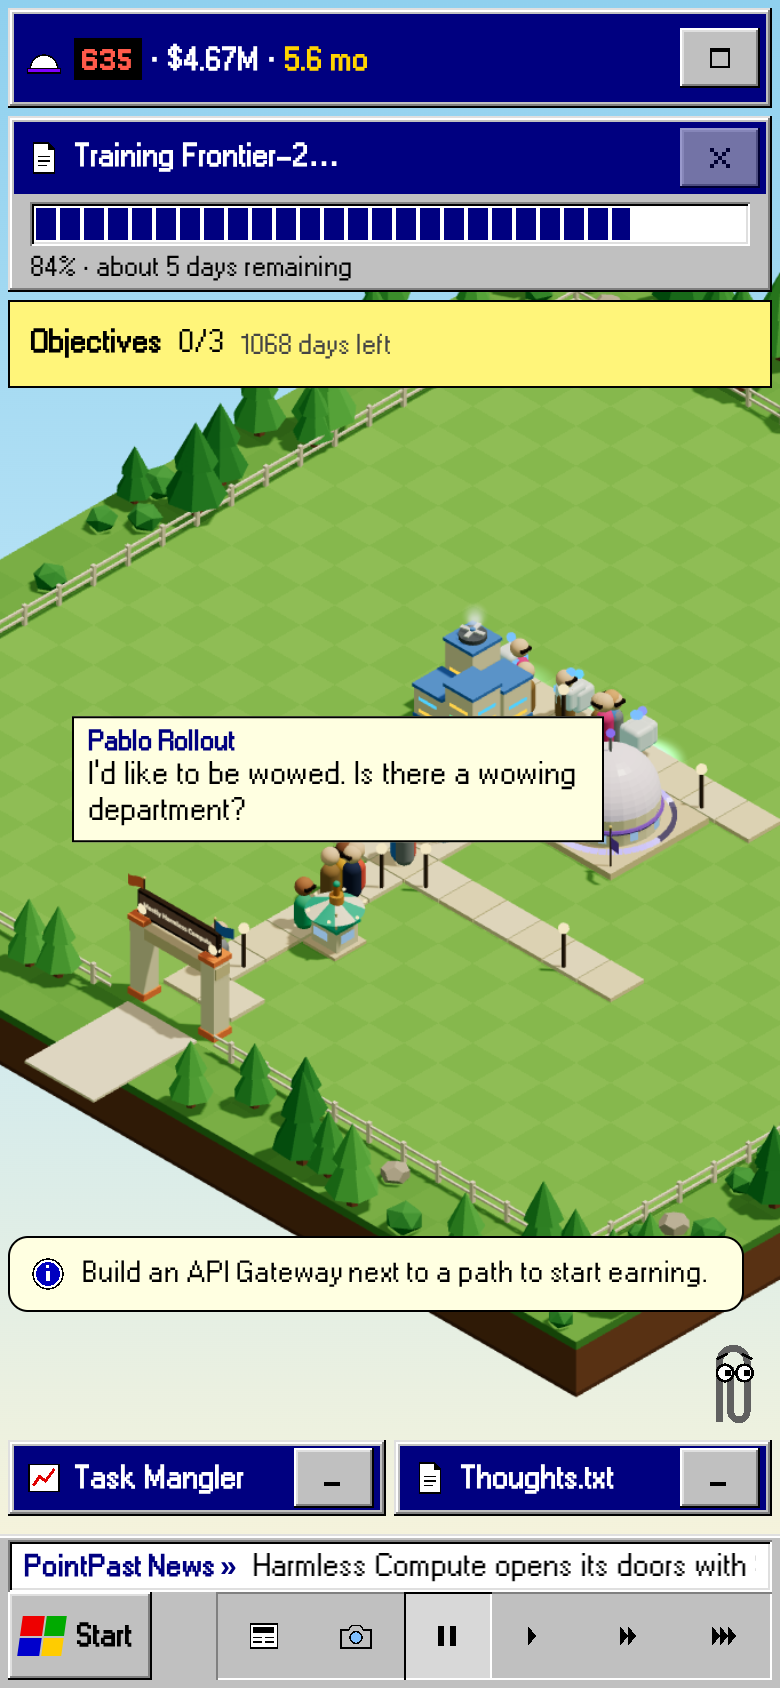
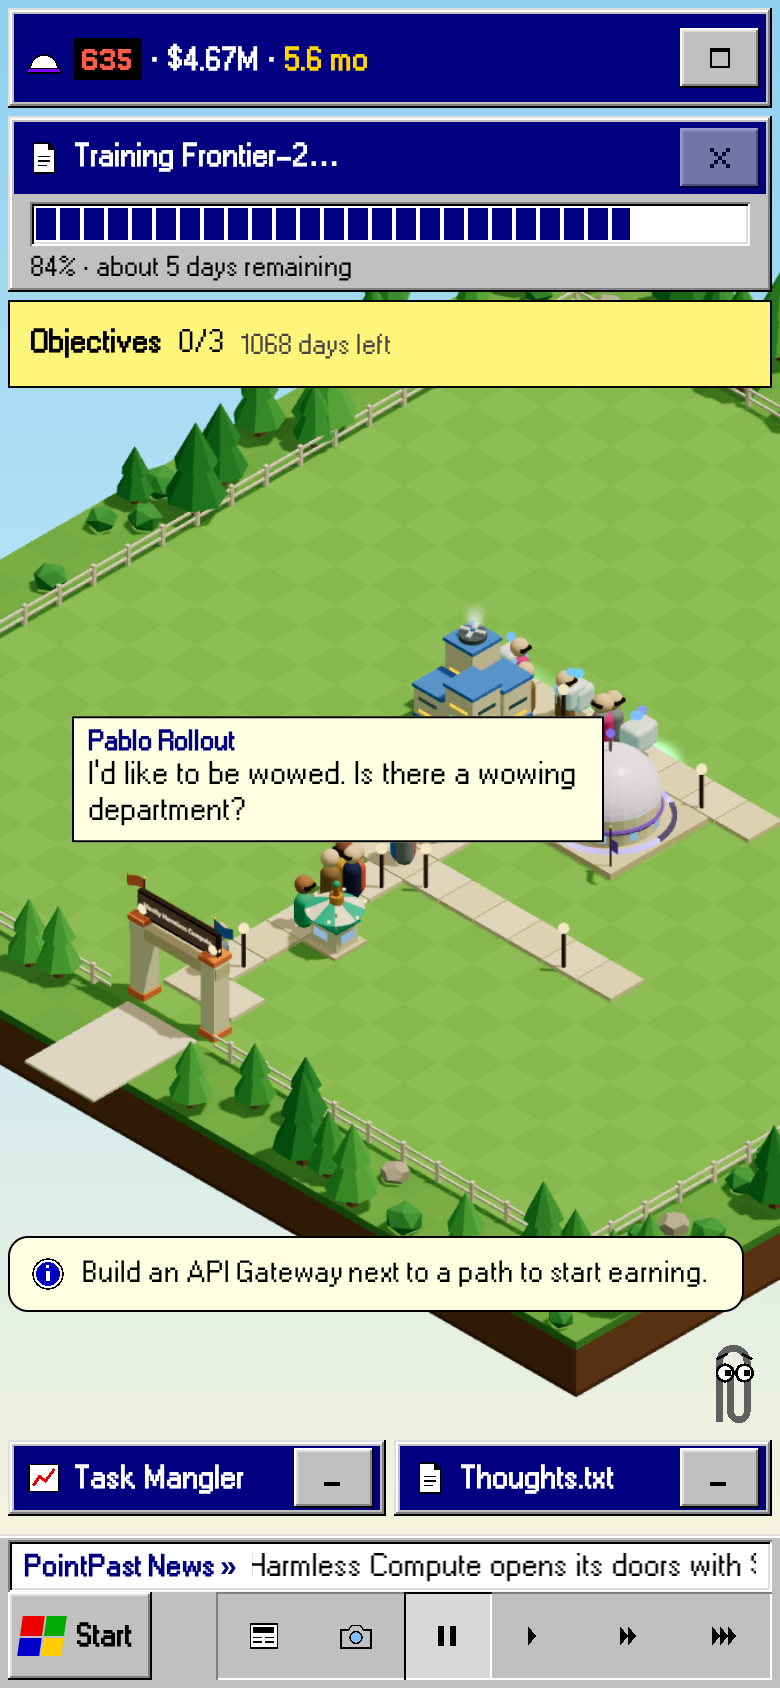
Retake FLT-37 shots on the merged branch, plus a pass against flt-47-playable

diff --git a/docs/img/flt-37/report.md b/docs/img/flt-37/report.md
@@ -1,11 +1,11 @@
 
-| Scene | Before (`main` @ 46f564a) | After (`flt-37-mods-live` @ aae6120+) |
+| Scene | Before (`main` @ 00b8c60) | After (`flt-37-mods-live` @ e631c60) |
 |---|---|---|
-| **overview**<br>21.6% px differ | ![overview](https://github.com/jem-computer/frontier-lab-tycoon/blob/flt-37-mods-live/docs/img/flt-37/before/overview.png?raw=true) | ![overview](https://github.com/jem-computer/frontier-lab-tycoon/blob/flt-37-mods-live/docs/img/flt-37/after/overview.png?raw=true) |
-| **phone**<br>22.0% px differ | ![phone](https://github.com/jem-computer/frontier-lab-tycoon/blob/flt-37-mods-live/docs/img/flt-37/before/phone.png?raw=true) | ![phone](https://github.com/jem-computer/frontier-lab-tycoon/blob/flt-37-mods-live/docs/img/flt-37/after/phone.png?raw=true) |
-| **mod-steve**<br>22.4% px differ | ![mod-steve](https://github.com/jem-computer/frontier-lab-tycoon/blob/flt-37-mods-live/docs/img/flt-37/before/mod-steve.png?raw=true) | ![mod-steve](https://github.com/jem-computer/frontier-lab-tycoon/blob/flt-37-mods-live/docs/img/flt-37/after/mod-steve.png?raw=true) |
+| **overview**<br>19.2% px differ | ![overview](https://github.com/jem-computer/frontier-lab-tycoon/blob/flt-37-mods-live/docs/img/flt-37/before/overview.png?raw=true) | ![overview](https://github.com/jem-computer/frontier-lab-tycoon/blob/flt-37-mods-live/docs/img/flt-37/after/overview.png?raw=true) |
+| **phone**<br>22.1% px differ | ![phone](https://github.com/jem-computer/frontier-lab-tycoon/blob/flt-37-mods-live/docs/img/flt-37/before/phone.png?raw=true) | ![phone](https://github.com/jem-computer/frontier-lab-tycoon/blob/flt-37-mods-live/docs/img/flt-37/after/phone.png?raw=true) |
+| **mod-steve**<br>20.0% px differ | ![mod-steve](https://github.com/jem-computer/frontier-lab-tycoon/blob/flt-37-mods-live/docs/img/flt-37/before/mod-steve.png?raw=true) | ![mod-steve](https://github.com/jem-computer/frontier-lab-tycoon/blob/flt-37-mods-live/docs/img/flt-37/after/mod-steve.png?raw=true) |
 | **mod-steve-phone**<br>22.3% px differ | ![mod-steve-phone](https://github.com/jem-computer/frontier-lab-tycoon/blob/flt-37-mods-live/docs/img/flt-37/before/mod-steve-phone.png?raw=true) | ![mod-steve-phone](https://github.com/jem-computer/frontier-lab-tycoon/blob/flt-37-mods-live/docs/img/flt-37/after/mod-steve-phone.png?raw=true) |
-| **mod-retriever**<br>76.5% px differ | ![mod-retriever](https://github.com/jem-computer/frontier-lab-tycoon/blob/flt-37-mods-live/docs/img/flt-37/before/mod-retriever.png?raw=true) | ![mod-retriever](https://github.com/jem-computer/frontier-lab-tycoon/blob/flt-37-mods-live/docs/img/flt-37/after/mod-retriever.png?raw=true) |
-| **mod-manager**<br>32.7% px differ | ![mod-manager](https://github.com/jem-computer/frontier-lab-tycoon/blob/flt-37-mods-live/docs/img/flt-37/before/mod-manager.png?raw=true) | ![mod-manager](https://github.com/jem-computer/frontier-lab-tycoon/blob/flt-37-mods-live/docs/img/flt-37/after/mod-manager.png?raw=true) |
+| **mod-retriever**<br>76.4% px differ | ![mod-retriever](https://github.com/jem-computer/frontier-lab-tycoon/blob/flt-37-mods-live/docs/img/flt-37/before/mod-retriever.png?raw=true) | ![mod-retriever](https://github.com/jem-computer/frontier-lab-tycoon/blob/flt-37-mods-live/docs/img/flt-37/after/mod-retriever.png?raw=true) |
+| **mod-manager**<br>30.8% px differ | ![mod-manager](https://github.com/jem-computer/frontier-lab-tycoon/blob/flt-37-mods-live/docs/img/flt-37/before/mod-manager.png?raw=true) | ![mod-manager](https://github.com/jem-computer/frontier-lab-tycoon/blob/flt-37-mods-live/docs/img/flt-37/after/mod-manager.png?raw=true) |
 
-_pnpm shots: 6 scene(s) in 120.2s (12/12 captures ok)._
+_pnpm shots: 6 scene(s) in 120.0s (12/12 captures ok)._

diff --git a/docs/img/flt-37/vs-playable/report.md b/docs/img/flt-37/vs-playable/report.md
@@ -1,0 +1,8 @@
+
+| Scene | Before (`origin/flt-47-playable` @ 158f23e) | After (`flt-37-mods-live` @ e631c60+) |
+|---|---|---|
+| **overview**<br>≈ unchanged (0.11% px) | ![overview](https://github.com/jem-computer/frontier-lab-tycoon/blob/flt-37-mods-live/docs/img/flt-37/vs-playable/before/overview.png?raw=true) | ![overview](https://github.com/jem-computer/frontier-lab-tycoon/blob/flt-37-mods-live/docs/img/flt-37/vs-playable/after/overview.png?raw=true) |
+| **phone**<br>≈ unchanged (0.22% px) | ![phone](https://github.com/jem-computer/frontier-lab-tycoon/blob/flt-37-mods-live/docs/img/flt-37/vs-playable/before/phone.png?raw=true) | ![phone](https://github.com/jem-computer/frontier-lab-tycoon/blob/flt-37-mods-live/docs/img/flt-37/vs-playable/after/phone.png?raw=true) |
+| **mod-steve**<br>1.0% px differ | ![mod-steve](https://github.com/jem-computer/frontier-lab-tycoon/blob/flt-37-mods-live/docs/img/flt-37/vs-playable/before/mod-steve.png?raw=true) | ![mod-steve](https://github.com/jem-computer/frontier-lab-tycoon/blob/flt-37-mods-live/docs/img/flt-37/vs-playable/after/mod-steve.png?raw=true) |
+
+_pnpm shots: 3 scene(s) in 64.0s (6/6 captures ok)._
